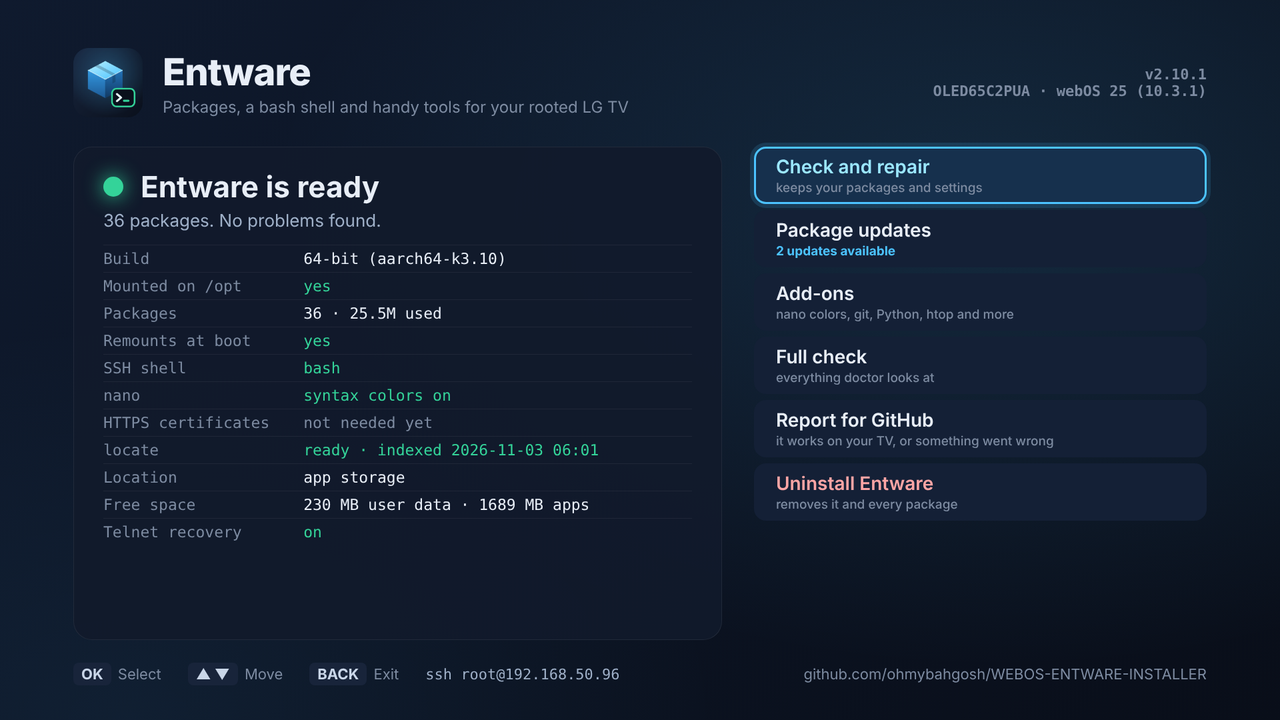
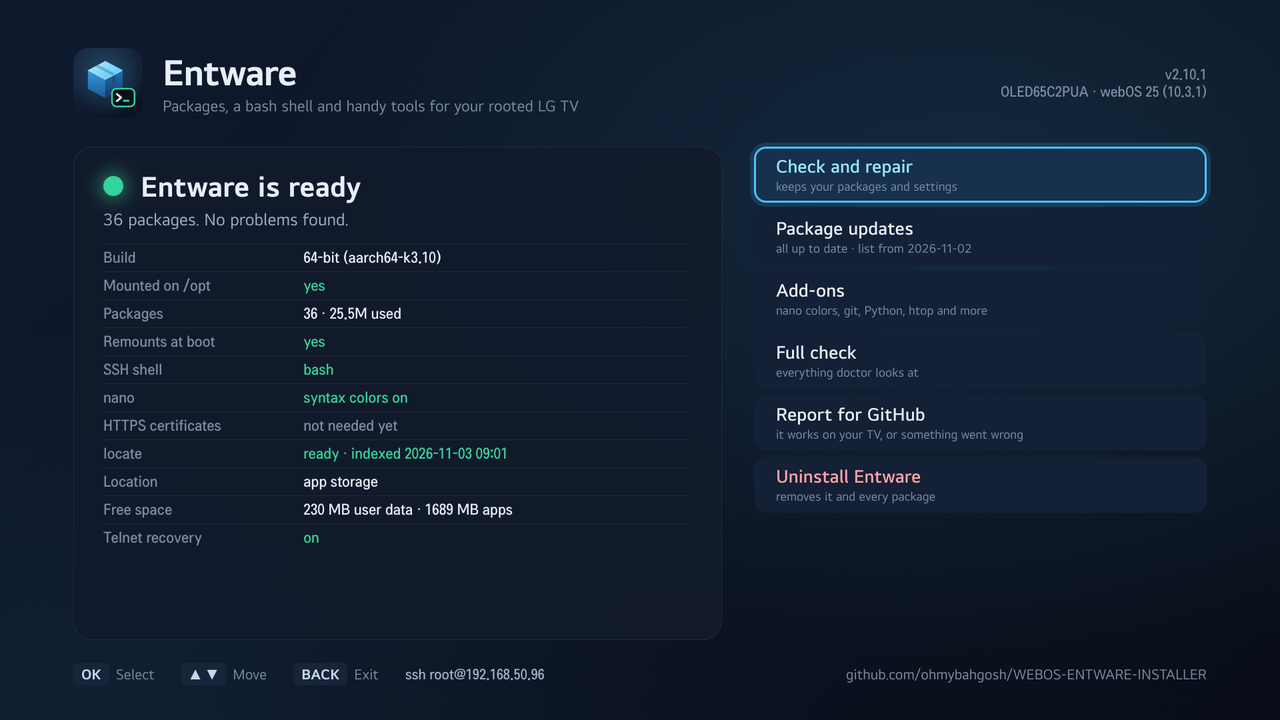
README: lead the install with the Homebrew Channel, step by step
Install now starts with the Homebrew Channel in four steps, each with a screenshot captured from an LG C2: the repository in the settings, Entware in the app list, its page, and the app saying Entware is ready.  The IPK and SSH methods follow.  The app's main screenshot is now the real one from the TV, and the requirements say SSH is only needed for the SSH method and the shell.

diff --git a/README.md b/README.md
@@ -35,7 +35,7 @@ Sets up **Entware** on **rooted LG webOS TVs**, so you can install hundreds of L
 
 ## Quick start
 
-**With the remote:** in the Homebrew Channel, open Settings, add the repository `https://ohmybahgosh.dev/repo`, install **Entware**, open it and choose **Install Entware**.  [More about the app](#the-tv-app).
+**With the remote (easiest):** in the Homebrew Channel, open Settings, add the repository `https://ohmybahgosh.dev/repo`, install **Entware**, open it and choose **Install Entware**.  [Step by step with screenshots](#from-the-homebrew-channel-recommended).
 
 **Over SSH:**
 
@@ -44,7 +44,7 @@ wget -O /tmp/webos-entware-installer.sh https://raw.githubusercontent.com/ohmyba
 sh /tmp/webos-entware-installer.sh install
 ```
 
-Then log in again for the bash shell, and try `ent search htop` or `webos-entware add git`.  [Full install guide](#install).
+Then log in again for the bash shell, and try `ent search htop` or `webos-entware add git`.  [More SSH options](#over-ssh).
 
 ---
 
@@ -56,6 +56,8 @@ Then log in again for the bash shell, and try `ent search htop` or `webos-entwar
 - [Supported TVs](#supported-tvs)
 - [Requirements](#requirements)
 - [Install](#install)
+  - [From the Homebrew Channel](#from-the-homebrew-channel-recommended)
+  - [Over SSH](#over-ssh)
 - [The build check (32-bit or 64-bit)](#the-build-check-32-bit-or-64-bit)
 - [Options](#options)
 - [After installing](#after-installing)
@@ -100,7 +102,7 @@ The easiest way in.  It runs the same installer underneath, as root through the 
 <p align="center"><img src="images/app-demo.gif" width="720" alt="The TV app with the remote: opening Add-ons, adding the Login banner and watching it install, then opening Package updates"></p>
 
 <p align="center">
-  <img src="images/app-status.png" width="49%" alt="The Entware app's main screen on an LG C2: Entware is ready, 36 packages on app storage, with Check and repair, Package updates (2 updates available), Add-ons, Full check, Report for GitHub and Uninstall Entware">
+  <img src="images/app-status.png" width="49%" alt="The Entware app on an LG C2, captured from the TV: Entware is ready, 36 packages on app storage, no problems found, with Check and repair, Package updates, Add-ons, Full check, Report for GitHub and Uninstall Entware">
   <img src="images/app-addons.png" width="49%" alt="The Add-ons screen scrolled to the bottom: tmux, ncdu, rsync, curl and jq with Add, and the Login banner installed">
 </p>
 <p align="center">
@@ -108,13 +110,7 @@ The easiest way in.  It runs the same installer underneath, as root through the 
   <img src="images/app-report.gif" width="49%" alt="Animated: Report for GitHub offers It works on my TV and Something went wrong, each showing a QR code with the TV's details filled in">
 </p>
 
-**Install it from the Homebrew Channel:** open the Homebrew Channel, go to Settings, add the repository `https://ohmybahgosh.dev/repo`, then install **Entware** from the list.  The Homebrew Channel then offers updates like for any other app.
-
-**Or install the IPK yourself:** download `org.ohmybahgosh.entware_*.ipk` from the [latest release](https://github.com/ohmybahgosh/WEBOS-ENTWARE-INSTALLER/releases/latest) and install it with `ares-install`, or on the TV:
-
-```sh
-luna-send -n 1 luna://com.webos.appInstallService/dev/install '{"id":"org.ohmybahgosh.entware","ipkUrl":"/tmp/org.ohmybahgosh.entware_2.10.1_all.ipk"}'
-```
+**Get it:** [from the Homebrew Channel](#from-the-homebrew-channel-recommended), in four steps with screenshots.
 
 Already installed Entware over SSH?  Open the app and it shows your install as it is.  The app and the `webos-entware` command run the same installer, and a repair from the app updates the saved command to the app's version.  Removing the app leaves Entware installed; use **Uninstall Entware** first if you want it gone too.
 
@@ -155,7 +151,7 @@ Tried it on a TV that isn't listed?  A [compatibility report](https://github.com
 ## Requirements
 
 - A **rooted** LG webOS TV with the **Homebrew Channel** installed. See [webosbrew.org/rooting](https://www.webosbrew.org/pages/rooting/) and check your firmware at [cani.rootmy.tv](https://cani.rootmy.tv).
-- **SSH** turned on in Homebrew Channel settings. Keeping **telnet** on too gives you a way back in if SSH ever breaks.
+- **SSH** turned on in Homebrew Channel settings, to install over SSH or use the bash shell.  The TV app doesn't need it.  Keeping **telnet** on too gives you a way back in if SSH ever breaks.
 - An **internet connection** on the TV.
 - About **50 MB** free space.
 
@@ -164,6 +160,40 @@ Without the Homebrew Channel, Entware still installs, but there's no boot script
 ---
 
 ## Install
+
+### From the Homebrew Channel (recommended)
+
+No SSH needed.  Everything happens on the TV with the remote.
+
+**1.  Add the repository.**  Open the Homebrew Channel and select the gear icon at the top right.  Under **Repositories**, choose **Add repository**, enter `https://ohmybahgosh.dev/repo` and add it.  It then shows up in the list.
+
+<p align="center"><img src="images/hb-settings.png" width="760" alt="The Homebrew Channel's settings on the TV: Root configuration on the left, and on the right the repositories, with https://ohmybahgosh.dev/repo listed below the two webosbrew.org ones and Add repository underneath"></p>
+
+**2.  Find Entware in the app list.**  Go back to the main screen.  **Entware** is listed with the other apps, with its cube and terminal icon.
+
+<p align="center"><img src="images/hb-apps.png" width="760" alt="The Homebrew Channel's app list on the TV with Entware selected, next to LG-USB-2-ETH0 and TiviBro"></p>
+
+**3.  Install it.**  Open Entware and choose **Install**.  The page shows the version, that it needs root, and what the app does.  When a new version is out, the same page offers **Update**, and so does the app itself.
+
+<p align="center"><img src="images/hb-entware.png" width="760" alt="Entware's page in the Homebrew Channel: version 2.10.1, root required, Launch and Uninstall buttons, screenshots of the app and its description, from https://ohmybahgosh.dev/repo"></p>
+
+**4.  Open it and choose Install Entware.**  Choose **Launch**.  The app checks your TV, picks the right build and installs Entware in about two minutes, with the progress on screen.  When it's done it says **Entware is ready**.
+
+<p align="center"><img src="images/app-status.png" width="760" alt="The Entware app on an LG C2 after installing, captured from the TV: Entware is ready, 36 packages on app storage, no problems found"></p>
+
+From there, [add-ons](#add-ons) are one press away.  For the bash shell and `ent`, SSH in to the TV (turn on SSH in the Homebrew Channel's settings first).
+
+### Or install the app's IPK yourself
+
+Download `org.ohmybahgosh.entware_*.ipk` from the [latest release](https://github.com/ohmybahgosh/WEBOS-ENTWARE-INSTALLER/releases/latest) and install it with `ares-install`, or on the TV:
+
+```sh
+luna-send -n 1 luna://com.webos.appInstallService/dev/install '{"id":"org.ohmybahgosh.entware","ipkUrl":"/tmp/org.ohmybahgosh.entware_2.10.1_all.ipk"}'
+```
+
+The Homebrew Channel won't offer updates for it unless you add the repository too, but the app's own **Update to v…** still works.
+
+### Over SSH
 
 SSH into your TV as root, then download and run the installer:
 
@@ -178,7 +208,7 @@ When it finishes, **disconnect and SSH in again** to get the bash shell.
 
 <p align="center"><img src="images/term-install.gif" width="760" alt="An install over SSH, animated: the TV check, the recommended 64-bit build on app storage, each step, and Everything looks right"></p>
 
-### Skip the menu
+#### Skip the menu
 
 ```sh
 sh /tmp/webos-entware-installer.sh install      # install, or repair an existing install
@@ -186,7 +216,7 @@ sh /tmp/webos-entware-installer.sh doctor       # check the TV and the install
 sh /tmp/webos-entware-installer.sh uninstall    # remove everything
 ```
 
-### One line, piped into sh
+#### One line, piped into sh
 
 ```sh
 wget -O - https://raw.githubusercontent.com/ohmybahgosh/WEBOS-ENTWARE-INSTALLER/main/webos-entware-installer.sh | sh -s -- install
